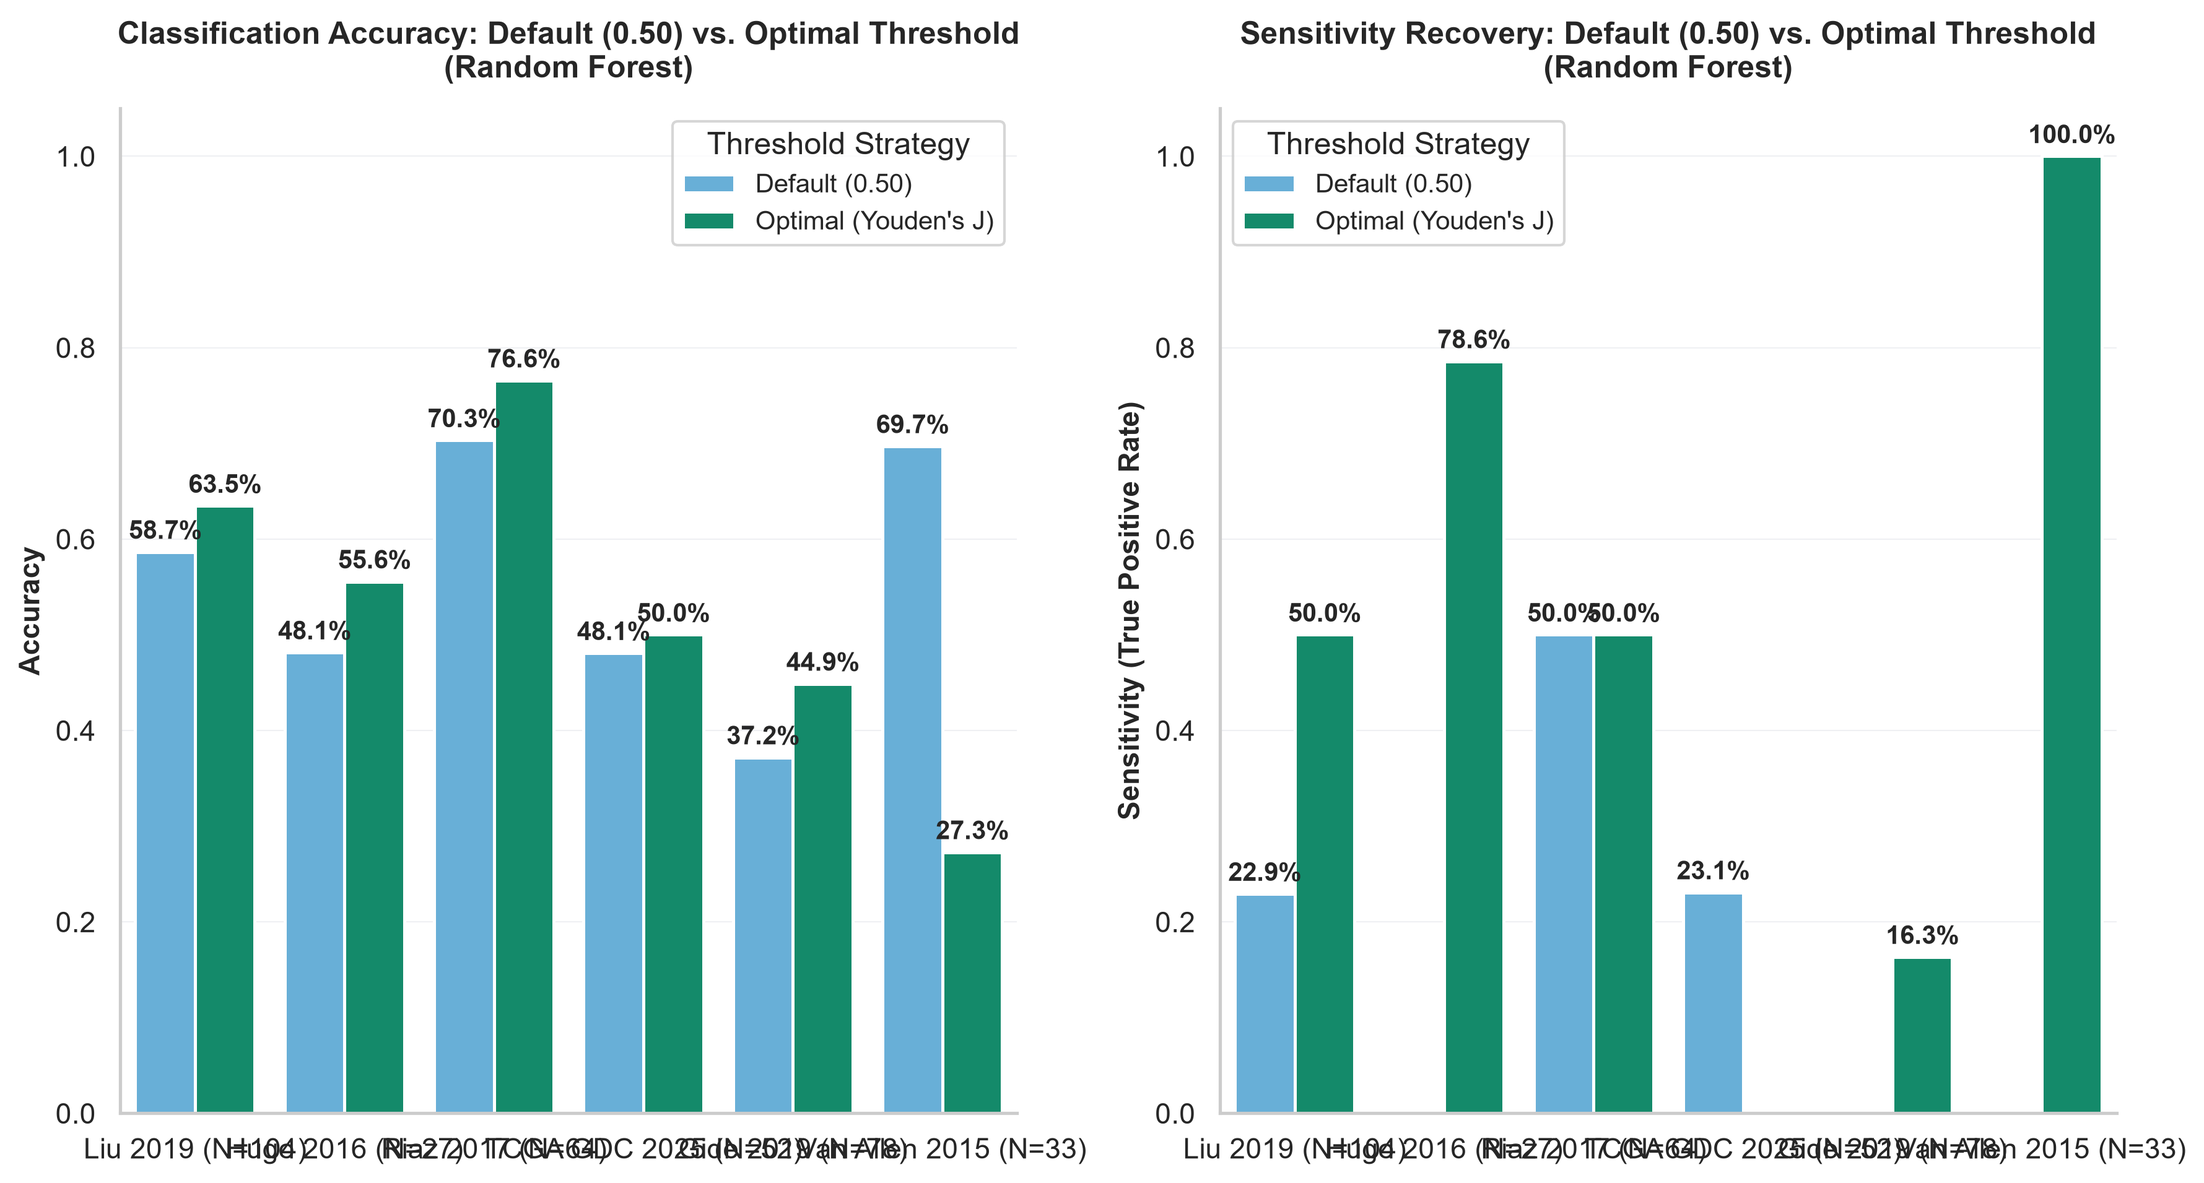
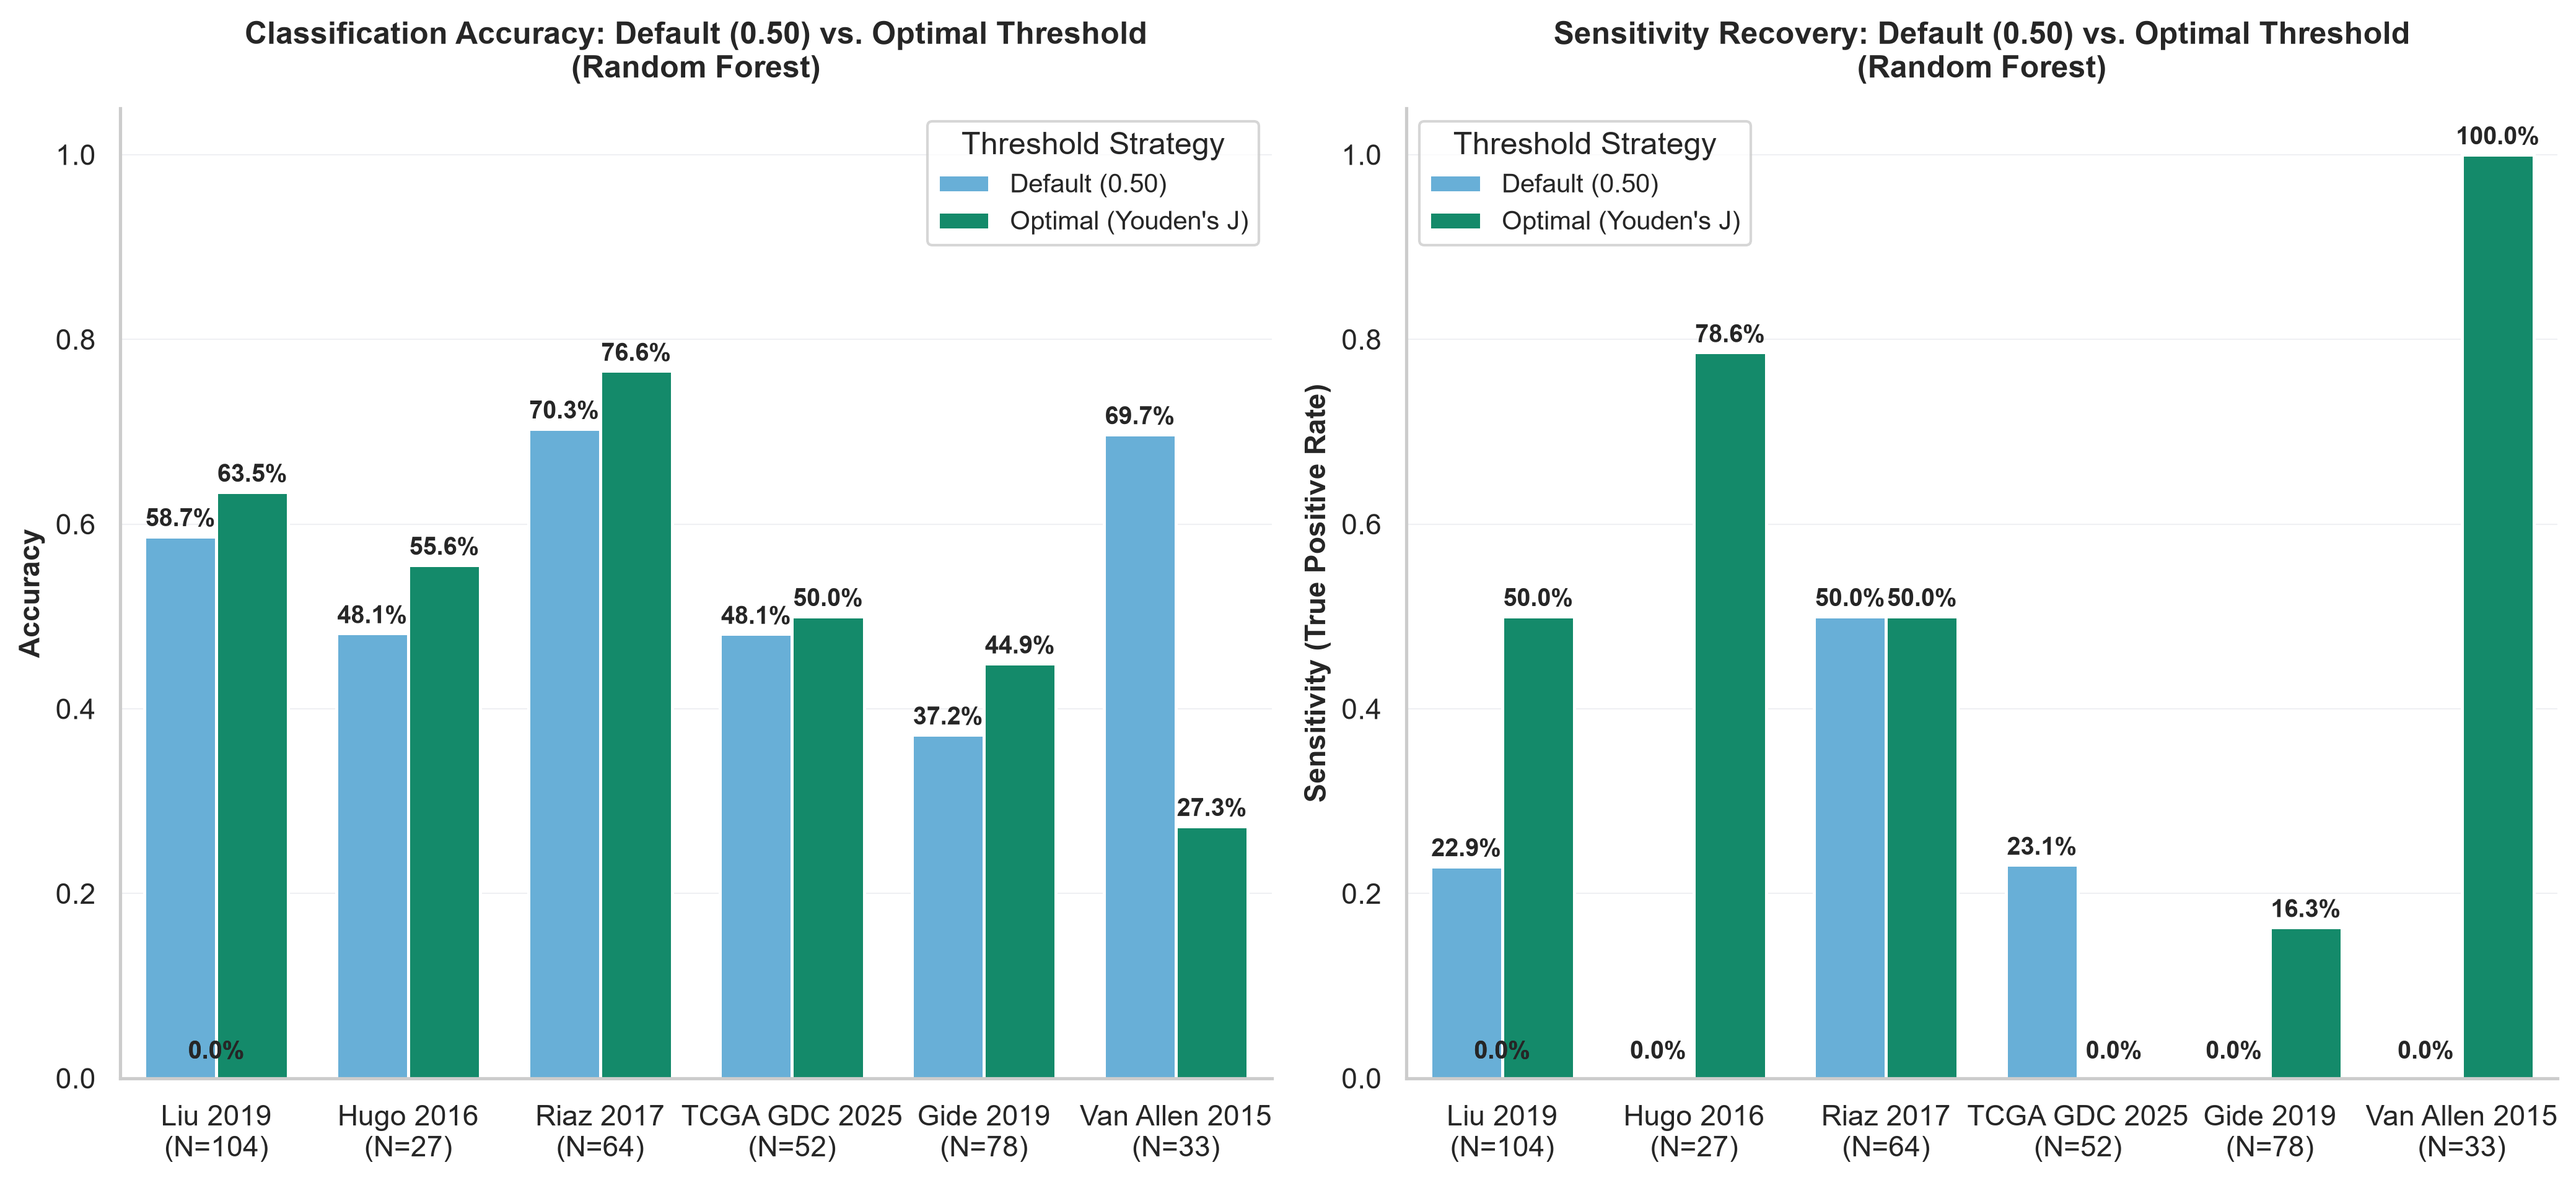
feat(q1-viz): update decision threshold plot layout and dataset resolution
- Resolve _CONFIG_PATH to subproject config/datasets.yaml to load all 6 active immunotherapy cohorts
- Wrap x-axis labels over two lines with study name and (N=...) sample counts
- Increase bar width (width=0.75) and figure width for improved visual clarity
- Annotate zero-sensitivity default threshold bars with explicit 0.0% labels at baseline
- Regenerate threshold_tuning_impact.png and update model evaluation report metadata

diff --git a/q1-response-predictor/scripts/exploratory_plots/generate_threshold_plot.py b/q1-response-predictor/scripts/exploratory_plots/generate_threshold_plot.py
@@ -140,15 +140,16 @@ def _annotate_bars(ax: plt.Axes) -> None:
     """
     for patch in ax.patches:
         height = patch.get_height()
-        if height > 0:
+        if not np.isnan(height):
+            y_pos = max(height, 0.01)
             ax.annotate(
                 f"{height:.1%}",
-                (patch.get_x() + patch.get_width() / 2.0, height),
+                (patch.get_x() + patch.get_width() / 2.0, y_pos),
                 ha="center",
                 va="bottom",
-                fontsize=10,
+                fontsize=9.5,
                 fontweight="bold",
-                xytext=(0, 3),
+                xytext=(0, 2),
                 textcoords="offset points",
             )
 
@@ -179,7 +180,7 @@ def plot_threshold_comparison(df: pd.DataFrame, output_path: Path) -> Path:
         The resolved output path.
     """
     palette = _build_palette()
-    fig, axes = plt.subplots(1, 2, figsize=(12, 6.5))
+    fig, axes = plt.subplots(1, 2, figsize=(14, 6.5))
 
     # Panel 1: Accuracy
     sns.barplot(
@@ -189,6 +190,7 @@ def plot_threshold_comparison(df: pd.DataFrame, output_path: Path) -> Path:
         hue="Strategy",
         palette=palette,
         ax=axes[0],
+        width=0.75,
         edgecolor="white",
         linewidth=1.2,
     )
@@ -212,6 +214,7 @@ def plot_threshold_comparison(df: pd.DataFrame, output_path: Path) -> Path:
         hue="Strategy",
         palette=palette,
         ax=axes[1],
+        width=0.75,
         edgecolor="white",
         linewidth=1.2,
     )

diff --git a/q1-response-predictor/reports/pillar-4-out-of-cohort-benchmarks/model_evaluation_report.md b/q1-response-predictor/reports/pillar-4-out-of-cohort-benchmarks/model_evaluation_report.md
@@ -4,24 +4,26 @@ aliases:
   - LOCO Model Evaluation Report
   - Q1 Response Predictor Evaluation
 tags:
-  - q1
-  - model-evaluation
-  - loco-cv
-  - immunotherapy-response
   - calibration
+  - immunotherapy-response
+  - loco-cv
+  - model-evaluation
+  - q1
 created: 2026-08-09 17:06
 cssclasses:
-  - table-small
-  - table-center
   - row-alt
-updated: 2026-08-09 17:06
+  - table-center
+  - table-small
+obsidianEditingMode: preview
+obsidianUIMode: source
+updated: 2026-08-09 19:22
 ---
 
 # Model Evaluation Report: Leave-One-Cohort-Out (LOCO) Cross-Validation
 
 > [!summary] What, Why & Key Questions
 > - **What**: Tested 5 machine learning models (LR, RF, XGBoost, SVM, ElasticNet) predicting anti-PD-1 / immunotherapy response.
-> - **Why**: Testing on held-out hospital trial cohorts (LOCO) evaluates real-world generalisability.
+> - **Why**: Testing on held-out hospital trial cohorts (LOCO) evaluates real-world generalisability.  
 > **Key Questions**: Which model generalises best? Does multimodal integration improve accuracy?
 
 ## Overview & Methodology
@@ -32,15 +34,15 @@ updated: 2026-08-09 17:06
 
 ## Cross-Model AUC Summary
 
-| Model | Gide 2019 | Hugo 2016 | Liu 2019 | Riaz 2017 | TCGA GDC 2025 | Van Allen 2015 | **Mean AUC** |
-|:---|---::---::---::---::---::---:---:|
-| **LR** | 0.522 | 0.511 | 0.512 | 0.743 | 0.422 | 0.599 | **0.551** |
-| **RF** | 0.374 | 0.489 | 0.555 | 0.657 | 0.414 | 0.527 | **0.503** |
-| **XGB** | 0.498 | 0.412 | 0.570 | 0.591 | 0.482 | 0.489 | **0.507** |
-| **SVM** | 0.626 | 0.308 | 0.571 | 0.343 | 0.420 | 0.566 | **0.472** |
-| **ElasticNet** | 0.728 | 0.451 | 0.539 | 0.740 | 0.401 | 0.643 | **0.584** |
+| Model          | Gide 2019                         | Hugo 2016 | Liu 2019 | Riaz 2017 | TCGA GDC 2025 | Van Allen 2015 | **Mean AUC** |
+| -------------- | --------------------------------- | --------- | -------- | --------- | ------------- | -------------- | ------------ |
+| **LR**         | 0.522                             | 0.511     | 0.512    | 0.743     | 0.422         | 0.599          | **0.551**    |
+| **RF**         | 0.374                             | 0.489     | 0.555    | 0.657     | 0.414         | 0.527          | **0.503**    |
+| **XGB**        | 0.498                             | 0.412     | 0.570    | 0.591     | 0.482         | 0.489          | **0.507**    |
+| **SVM**        | 0.626                             | 0.308     | 0.571    | 0.343     | 0.420         | 0.566          | **0.472**    |
+| **ElasticNet** | 0.728                             | 0.451     | 0.539    | 0.740     | 0.401         | 0.643          | **0.584**    |
 
-> [!INSIGHT] Best Generalising Model: ElasticNet
+> [!INSIGHT] Best Generalising Model: ElasticNet  
 > **ElasticNet Logistic Regression** achieves the highest mean cross-cohort AUC of **0.584** across held-out test cohorts.
 
 ## Logistic Regression (L1-Penalised)
